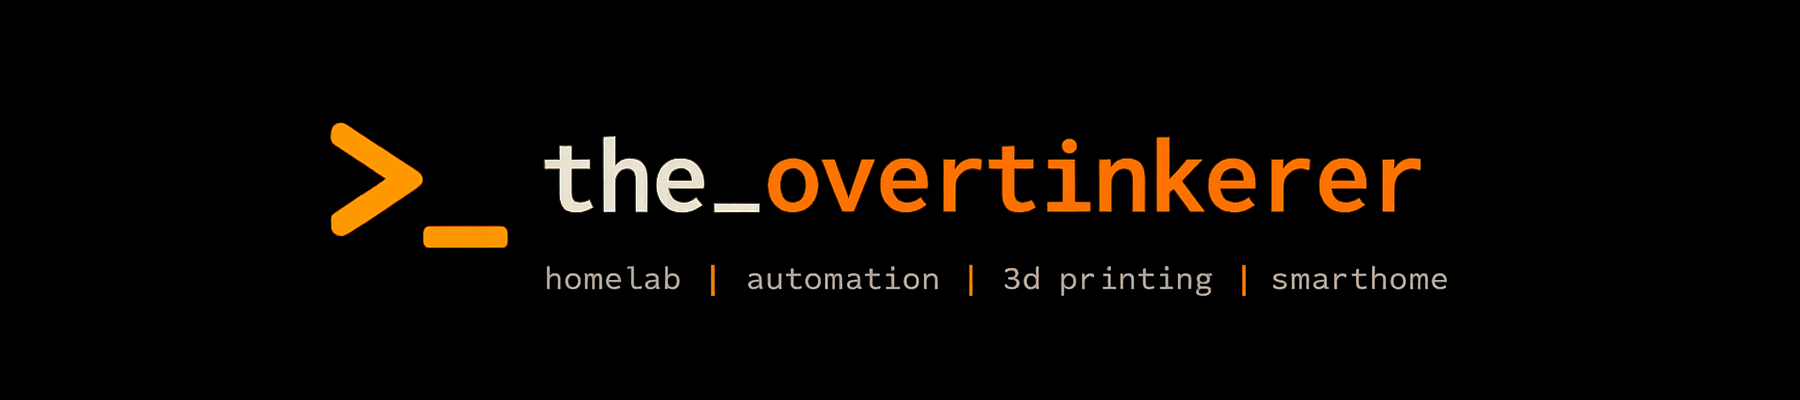
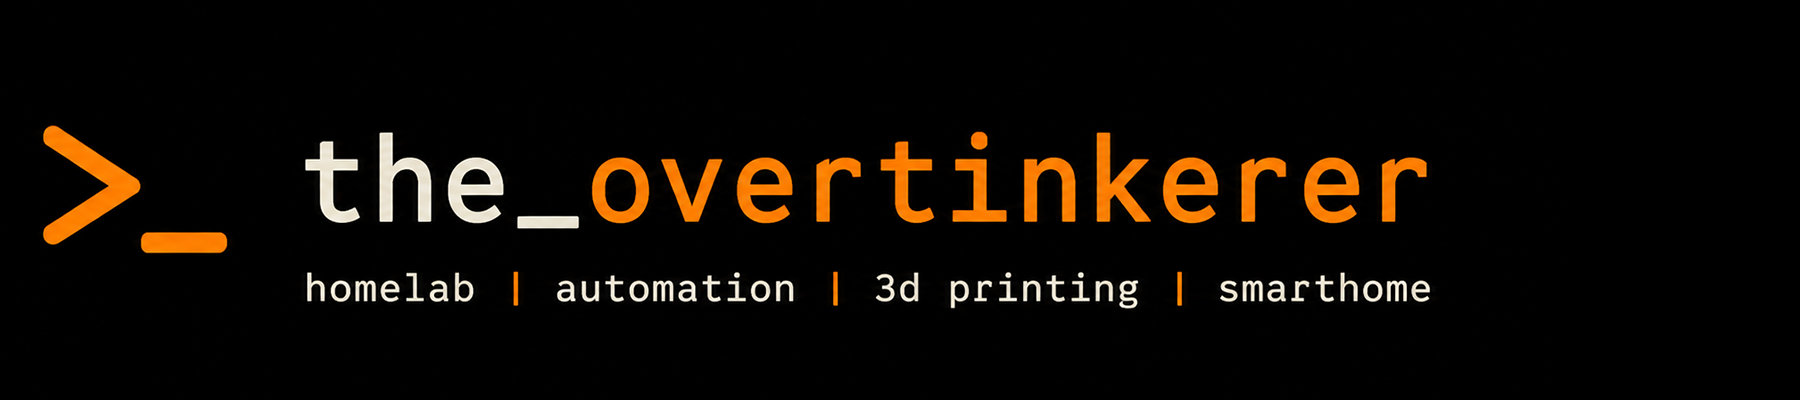
codex fixes

Changed region(s): [[0.1556, 0.3, 0.8089, 0.63], [0.1556, 0.66, 0.8089, 0.78], [0.0, 0.3, 0.1244, 0.66]]

diff --git a/assets/css/jekyll-theme-chirpy.scss b/assets/css/jekyll-theme-chirpy.scss
@@ -37,6 +37,24 @@
   --btn-active-border-color: #f97316;
 }
 
+@media (prefers-color-scheme: dark) {
+  :root:not([data-mode='light']) {
+    --sidebar-bg:           #111110;
+    --sidebar-muted-color:  #78716c;
+    --body-bg:              #1a1a1a;
+    --card-bg-color:        #222221;
+    --heading-color:        #fafaf9;
+    --text-color:           #d6d3d1;
+    --label-color:          #a8a29e;
+    --border-color:         #2e2e2c;
+    --color-accent:         #f97316;
+    --link-color:           #fb923c;
+    --link-underline-color: #f97316;
+    --btn-active-bg:        #f97316;
+    --btn-active-border-color: #f97316;
+  }
+}
+
 /* ─── Sidebar ────────────────────────────────────────────────── */
 
 #sidebar .site-title a {
@@ -131,7 +149,18 @@ code:not([class]) {
   line-height: 1.7;
 }
 .site-banner-name {
-  color: rgba(249, 115, 22, 0.5);
+  color: #f97316;
+}
+
+.home-banner {
+  width: 100%;
+  height: 140px;
+  object-fit: cover;
+  object-position: center;
+  border-radius: 8px;
+  margin-bottom: 0.25rem;
+  display: block;
+  animation: none !important;
 }
 
 /* ─── Post card banner strip ─────────────────────────────────── */
@@ -230,6 +259,19 @@ a.post-card-link:hover .post-card-title {
 }
 [data-mode='dark'] .post-card-banner {
   background: #111110;
+}
+
+@media (prefers-color-scheme: dark) {
+  :root:not([data-mode='light']) article.post-card {
+    background: #222221;
+    border-color: #2e2e2c;
+  }
+  :root:not([data-mode='light']) .post-card-title {
+    color: #fafaf9;
+  }
+  :root:not([data-mode='light']) .post-card-banner {
+    background: #111110;
+  }
 }
 
 /* ─── Content spacing ───────────────────────────────────────── */

diff --git a/index.html b/index.html
@@ -3,6 +3,7 @@ layout: home
 # Index page
 ---
 
-<img src="/assets/img/banner.png"
+<img class="home-banner" src="/assets/img/banner.svg"
      alt="Paul Como — homelab / infrastructure / IT"
-     style="width:100%; height:140px; object-fit:cover; object-position:center; border-radius:8px; margin-bottom:1.5rem; display:block; animation:none !important;">
+     width="1200"
+     height="140">